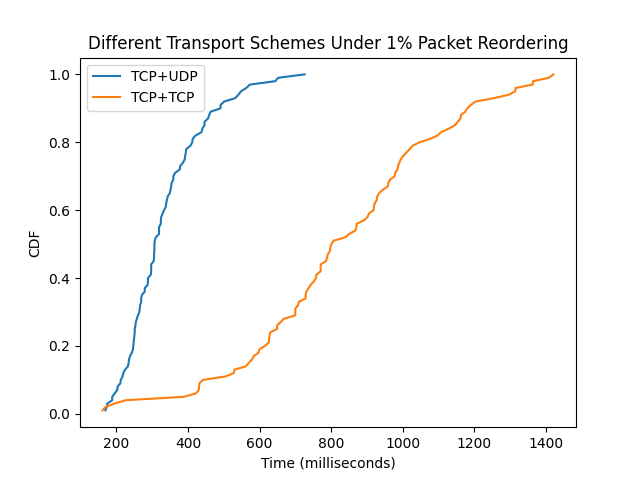
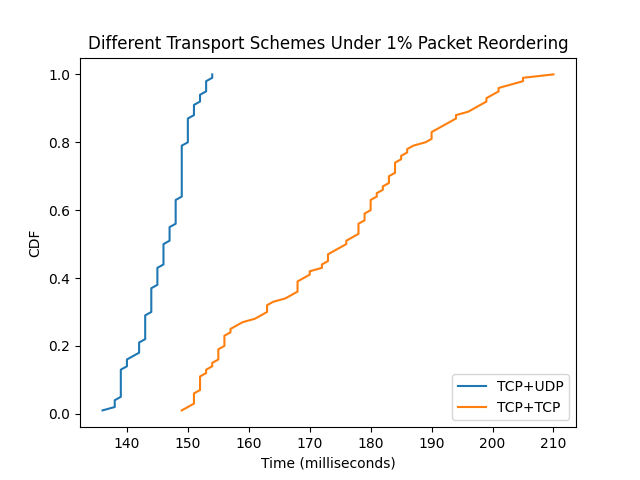
added png plots

diff --git a/analysis/run.py b/analysis/run.py
@@ -2,7 +2,7 @@ import matplotlib.pyplot as plt
 import numpy as np
 
 def read_file():
-    with open("run_0_5_loss.txt") as f:
+    with open("run_1p_reorder.txt") as f:
         data = f.read()
 
         data = data.split("\n")
